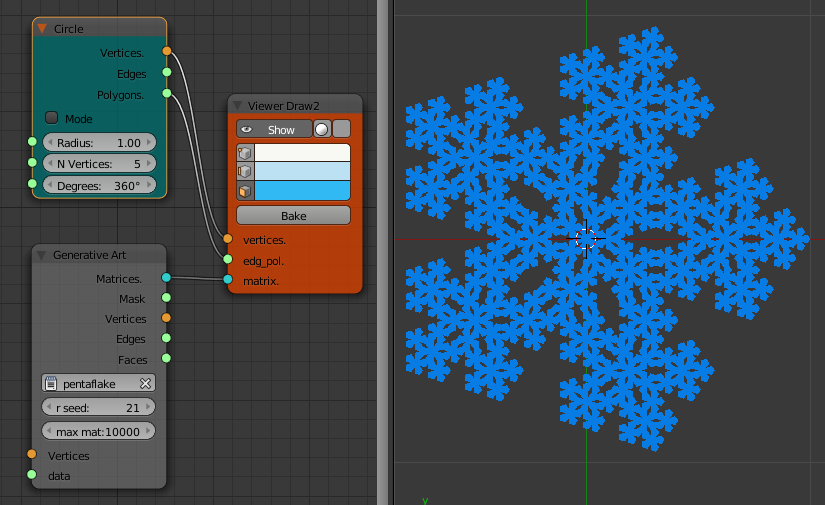
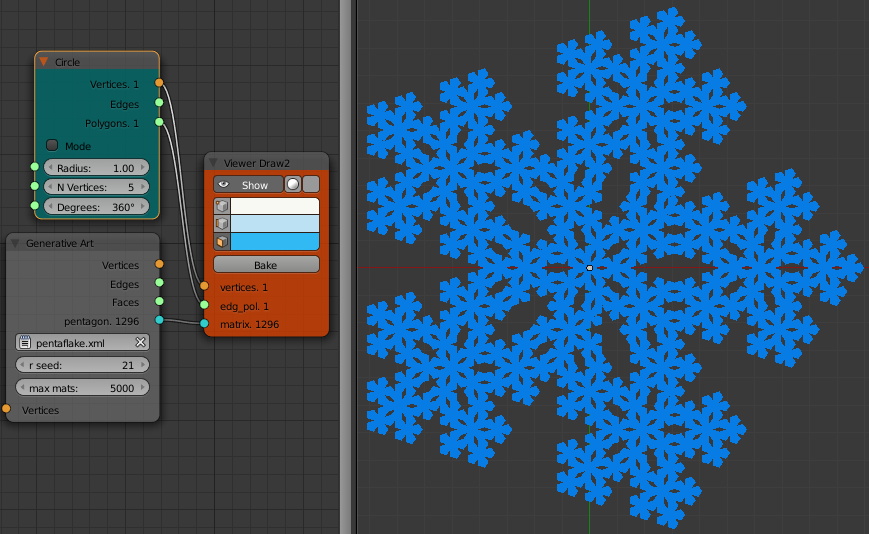
fractals on plane post

diff --git a/content/lsystem_2d_fractal.md b/content/lsystem_2d_fractal.md
@@ -1,22 +1,26 @@
 Title: Generative Art Examples - Fractals on a Plane
-Date: 2016-02-14 22:00
+Date: 2016-03-27 22:00
 Tags: make, think, blender, sverchok, structuresynth
 Category: think
 Author: elfnor
-Status: draft
+Status: published
 
 <meta property="og:image"
     content="/images/koch_vase_render_01_003.png" />
 
 ![koch vase](./images/koch_vase_render_01_003.png)
 
-I've made some changes and improvements to the *Generative Art* node in Sverchok. This node uses a simple *xml* file to define a set of rules to produce geometry. This node is very strongly based on [Structure Synth]() and can produce [Lindermayer Systems (lsystems)]() and fractals as well as more random and interesting creations. 
+This post is hopefully the first in a series of examples and demos for the *Generative Art* node for the  [Sverchok}(https://github.com/nortikin/sverchok) addon for [Blender](https://www.blender.org).
 
-This post is hopefully the first in a series of examples and demos for the *Generative Art* node. For some examples I've also given a link to an *eisenscript* version to be used in [StructureSynth](). These are not always exactly equivalent due to some differences between the two implementations but should help those who are more familiar with *eisenscript* make the transition to the *xml* format.
+This node is very strongly based on [Structure Synth](http://structuresynth.sourceforge.net/) and can produce [Lindermayer Systems (lsystems)](https://en.wikipedia.org/wiki/L-system) and fractals as well as more random and interesting creations.
+
+For some examples I've also given a link to an *eisenscript* version to be used in the original [StructureSynth](). These are not always exactly equivalent due to some differences between the two implementations but should help those who are more familiar with *eisenscript* make the transition to the xml format. I'm also most of the way through writing a program (using pyparsing) to translate from *eisenscript* to the xml format (*eisenxml*).
 
 Sverchok is available on [github](https://github.com/nortikin/sverchok). Download the zip version and install like any other Blender addon.
 
-The documentation for the node is [here](local md copy).
+The documentation for the node is [here]({filename}generative_art_docs.md).
+
+I have also started a [repo](https://github.com/elfnor/generative-art-examples) on github for *Generative Art* examples. These examples include the *eisenxml* and the *json* for the nodes (this can be imported into Sverchok using the *Import* button on the Sverchok panel). For some examples I've also included an *eisenscript* version.
 
 ## Koch Snowflake
 
@@ -31,14 +35,14 @@ The documentation for the node is [here](local md copy).
     </rule>
     
     <rule name="R1" max_depth="4" successor="unit">
-        <call transforms="tx -1 ty 0 sa 1.0/3.0" rule="R1"/>
+        <call transforms="tx -1 sa 1.0/3.0" rule="R1"/>
         <call transforms="tx -0.25 ty 0.25*3**0.5 rz 60 sa 1.0/3.0" rule="R1"/>      
         <call transforms="tx 0.25 ty 0.25*3**0.5 rz -60 sa 1.0/3.0" rule="R1"/>
-        <call transforms="tx 1 ty 0 sa 1.0/3.0" rule="R1"/>
+        <call transforms="tx 1 sa 1.0/3.0" rule="R1"/>
 
     </rule>
     <rule name="unit">
-        <instance transforms="tx -1.5 s 3 0.5 0.1" shape="s0"/>
+        <instance transforms="tx -1.5 sa 1" shape="line"/>
     </rule>
 </rules>
 
@@ -46,7 +50,7 @@ The documentation for the node is [here](local md copy).
 
 This is one of the earliest fractals described (1904). The basic unit is only drawn at the smallest size. This is achieved by using the *successor* attribute in the *R1* rule element. The *successor* attribute defines the rule to be called when the *max_depth* has been reached. That is after the *R1* rule has been called recursively four times the *unit* rule is called. 
 
-[xml](), [nodes in json](), [eisenscript](), [info]()
+[xml](https://github.com/elfnor/generative-art-examples/blob/master/koch_snowflake.xml), [nodes in json](https://github.com/elfnor/generative-art-examples/blob/master/koch_snowflake.json), [eisenscript](https://github.com/elfnor/generative-art-examples/blob/master/koch_snowflake.es), [info](https://en.wikipedia.org/wiki/Koch_snowflake)
 
 ## T-Square
 
@@ -56,21 +60,26 @@ This is one of the earliest fractals described (1904). The basic unit is only dr
 <rules max_depth="100">
     <rule name="entry">
         <call rule="R1"/>
+        <call rule="R2"/>
     </rule>
     
     <rule name="R1" max_depth="5">
-        <instance  transforms="sz 0.1" shape="s1"/>
-        <call transforms="tx 0.5 ty 0.5 sx 0.5 sy 0.5" rule="R1"/>
-        <call transforms="tx -0.5 ty -0.5 sx 0.5 sy 0.5" rule="R1"/>
-        <call transforms="tx 0.5 ty -0.5 sx 0.5 sy 0.5" rule="R1"/>
-        <call transforms="tx -0.5 ty 0.5 sx 0.5 sy 0.5" rule="R1"/>
+        <instance  transforms="sz 0.1" shape="box"/>
+        <call transforms="tx 0.5 ty 0.5 sx 0.5 sy 0.5 rz 90" rule="R1"/>
+        <call transforms="tx -0.5 ty -0.5 sx 0.5 sy 0.5 rz -90" rule="R1"/>
+        <call transforms="tx 0.5 ty -0.5 sx 0.5 sy 0.5" rule="R1"/>        
     </rule>
-
+    
+    <rule name="R2" max_depth="4">
+        <call transforms="tx -0.5 ty 0.5 sx 0.5 sy 0.5 rz 180" rule="R1"/>
+    </rule>
 </rules>
 ```
 
-This fractal has the basic unit (a box) repeated at ever decreasing scales. at each iteration it is scaled in x and y by one half. 
-[xml](), [nodes in json](), [eisenscript](), [info]()
+This fractal has the basic unit (a box) repeated at ever decreasing scales. at each iteration it is scaled in x and y by one half.  The *R1* rule places a *box* and then calls itself 3 times, rotating 90 degrees and scaling by a half each time. This places an ever decreasing set of boxes on three corners of the original box. Iterating over only three corners avoids placing boxes on the internal corner. The *R2* rule finishes the fourth corner.
+
+
+[xml](https://github.com/elfnor/generative-art-examples/blob/master/t_square_2d.xml), [nodes in json](https://github.com/elfnor/generative-art-examples/blob/master/t_square_2d.json), [eisenscript](https://github.com/elfnor/generative-art-examples/blob/master/t_square_2d.es), [info](https://en.wikipedia.org/wiki/T-square_%28fractal%29)
 
 ## Pentaflake
 
@@ -92,13 +101,14 @@ This fractal has the basic unit (a box) repeated at ever decreasing scales. at e
     </rule>
     
     <rule name="pentagon">
-        <instance shape="s0"/>
-    </rule>
+        <instance shape="pentagon"/>
+       </rule>
 
 </rules>
 ```
+[xml](https://github.com/elfnor/generative-art-examples/blob/master/pentaflake.xml), [nodes in json](https://github.com/elfnor/generative-art-examples/blob/master/pentaflake.json), [info](https://en.wikipedia.org/wiki/N-flake)
 
-The pentaflake is constructed by replacing a pentagon with six smaller pentagons. This in then repeated until the maximim depth is reached. this fractal is even older than the Koch curve appearing in a manuscript by Albrecht Durer in 1525. Its outer border is a version of the Koch snowflake. The structure is also closely related to the P1 [Penrose tiling]().
+The pentaflake is constructed by replacing a pentagon with six smaller pentagons. This in then repeated until the maximum depth is reached. this fractal is even older than the Koch curve appearing in a manuscript by Albrecht Durer in 1525. Its outer border is a version of the Koch snowflake. The structure is also closely related to the P1 [Penrose tiling]().
 
 ![pentagon](./images/ga_pentaflake_01.png)
 
@@ -165,7 +175,7 @@ Constants can be defined and used in the *xml* like this:
     </rule>
     
     <rule name="pentagon">
-        <instance shape="s0"/>
+        <instance shape="pentagon"/>
     </rule>
 
 </rules>
@@ -195,7 +205,7 @@ The *max_depth* attribute value of rule *R1* has been replaced by the ```{md}```
     </rule>
     
     <rule name="pentagon">
-        <instance shape="s0"/>
+        <instance shape="pentagon"/>
     </rule>
 
 </rules>
@@ -203,14 +213,18 @@ The *max_depth* attribute value of rule *R1* has been replaced by the ```{md}```
 The *Generative Art* node that uses this xml then acquires an extra input *md* which can be wired to another node. If no input is connected the variable value will default to zero.
 
 ![variable node diagram](./images/ga_pentaflake_node_02.png)
+
+[xml](https://github.com/elfnor/generative-art-examples/blob/master/pentaflake_vars.xml), [nodes in json](https://github.com/elfnor/generative-art-examples/blob/master/pentaflake_vars.json), [info](https://en.wikipedia.org/wiki/N-flake)
  
 By varying the value of the *Integer* node it is very easy to produce a set of images to show each iteration of the pentaflake fractal.
 
-![pentaflake gif]()
+![pentaflake gif](./images/pentaflake.gif)
 
-[xml](), [nodes in json](), [eisenscript](), [info]()
+----------------------------------------------------------------
 
-[xml](), [nodes in json](), [eisenscript](), [info](https://en.wikipedia.org/wiki/N-flake)
+
+
+
 
 
 

diff --git a/content/reading_lists.md b/content/reading_lists.md
@@ -6,11 +6,11 @@ Author: elfnor
 
 I love to read and reading lists fascinate me.
 
-I bought a Kindle ereader in 2011 and its resulted in some large changes in my reading habits. I own a lot of paper books, there's 1300+ in the house according to our [Readerware](http://www.readerware.com) database (databases are even fancier lists), but pre ereader most of what I read came from the local library. Every three weeks I'd come back with a pile of 6 to 8 books, at least one non-fiction and one book for looking at (art, craft photography). I'd look on the recently returned shelves, the books the librarians had put on display, and keep a special look out for local authors and witers outside the WEIRD (western, educated, industrialised, rich, democratic). So there was a lot of serendipity in what I bought home. I don't think I've been back to the library since I got the ereader.
+I bought a Kindle ereader in 2011 and its resulted in some large changes in my reading habits. I own a lot of paper books, there's 1300+ in the house according to our [Readerware](http://www.readerware.com) database (databases are even fancier lists), but pre ereader most of what I read came from the local library. Every three weeks I'd come back with a pile of 6 to 8 books, at least one non-fiction and one book for looking at (art, craft photography). I'd look on the recently returned shelves, the books the librarians had put on display, and keep a special look out for local authors and writers outside the WEIRD (western, educated, industrialised, rich, democratic). So there was a lot of serendipity in what I bought home. I don't think I've been back to the library since I got the ereader.
 
 Post Kindle, the choice of potential books is huge. Not just from amazon.com. I also make use of [dotepub](http://www.dotepub.com) and [grabmybooks](http://grabmybooks.com) to make copies of online short stories and blogs to read later. This large choice has a downside in that I'm sure[^1] I now read less local authors and more in the science fiction fantasy (sff) genre than previously. The upside is that if I hear about a book then I can be reading it that day[^2].
 
-Reading lists can be about what someone else thinks you should read (eg. "The Western Canon") or about challenges to change what or how much you read. This blogger's project <http://ayearofreadingtheworld.com> where she read one book from each of the 196 countries in one year and her previus project <http://ayearofreadingwomen.wordpress.com/> really inspire me to widen my reading. Being a data freak and a rule bender I'm in the process of going through my ebook collection (stored in [Calibre](http://calibre-ebook.com/) - more lists) and tagging the books with the author's country and gender. Any countries I've already bagged in the last year (maybe two years) I'll discount from the 196. After that I'm going to try and fill in the rest not with full novels but as many short stories as possible, preferably ones avaliable online so I can share. I'm sure my bias to sff will prevail and I'll also try for a 50/50 male/female split.
+Reading lists can be about what someone else thinks you should read (eg. "The Western Canon") or about challenges to change what or how much you read. This blogger's project <http://ayearofreadingtheworld.com> where she read one book from each of the 196 countries in one year and her previous project <http://ayearofreadingwomen.wordpress.com/> really inspire me to widen my reading. Being a data freak and a rule bender I'm in the process of going through my ebook collection (stored in [Calibre](http://calibre-ebook.com/) - more lists) and tagging the books with the author's country and gender. Any countries I've already bagged in the last year (maybe two years) I'll discount from the 196. After that I'm going to try and fill in the rest not with full novels but as many short stories as possible, preferably ones available online so I can share. I'm sure my bias to sff will prevail and I'll also try for a 50/50 male/female split.
 
 [^1]: I think if I log on the the local library site I can download a copy of my borrowing history (more lists) and do a comparison of pre and post ereader reading. No, too geeky.
 

diff --git a/content/blender_game_level_generator.md b/content/blender_game_level_generator.md
@@ -81,7 +81,7 @@ Here are some screen shots of the game being played in the Blender Game Engine.
 
 ![screen shot 2 of game in play](./images/steely_taws_screenshot_2.png)
 
-The blend file available [here](/downloads/steely_taws_level_gen.blend) contains each of the components on a separate layer. The game itself should be generated on the 1st layer.
+The blend file available [here](./downloads/steely_taws_level_gen.blend) contains each of the components on a separate layer. The game itself should be generated on the 1st layer.
 
 Install a recent version of [Sverchok](https://github.com/nortikin/sverchok) then open the blend file. A simple level with 50 components should be automatically generated. Maximise the 3D View (CTRL-UP). Select the  camera view (NUMPAD-0) then press P to start the game. Controls are provided for either the arrow keys or a joystick. If you fall off the edge you will automatically respawn at the start.
 
